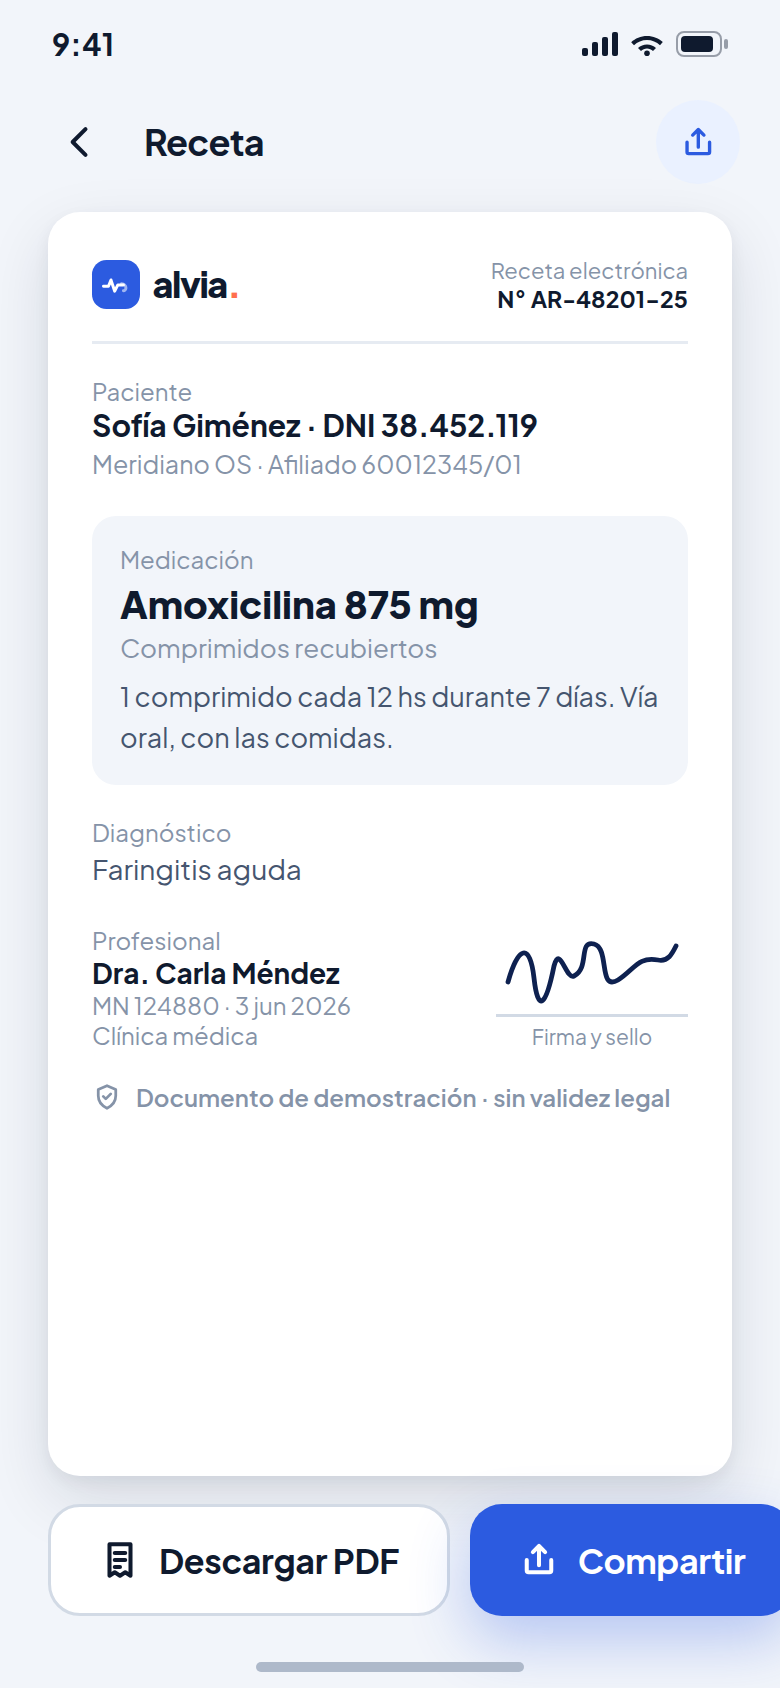
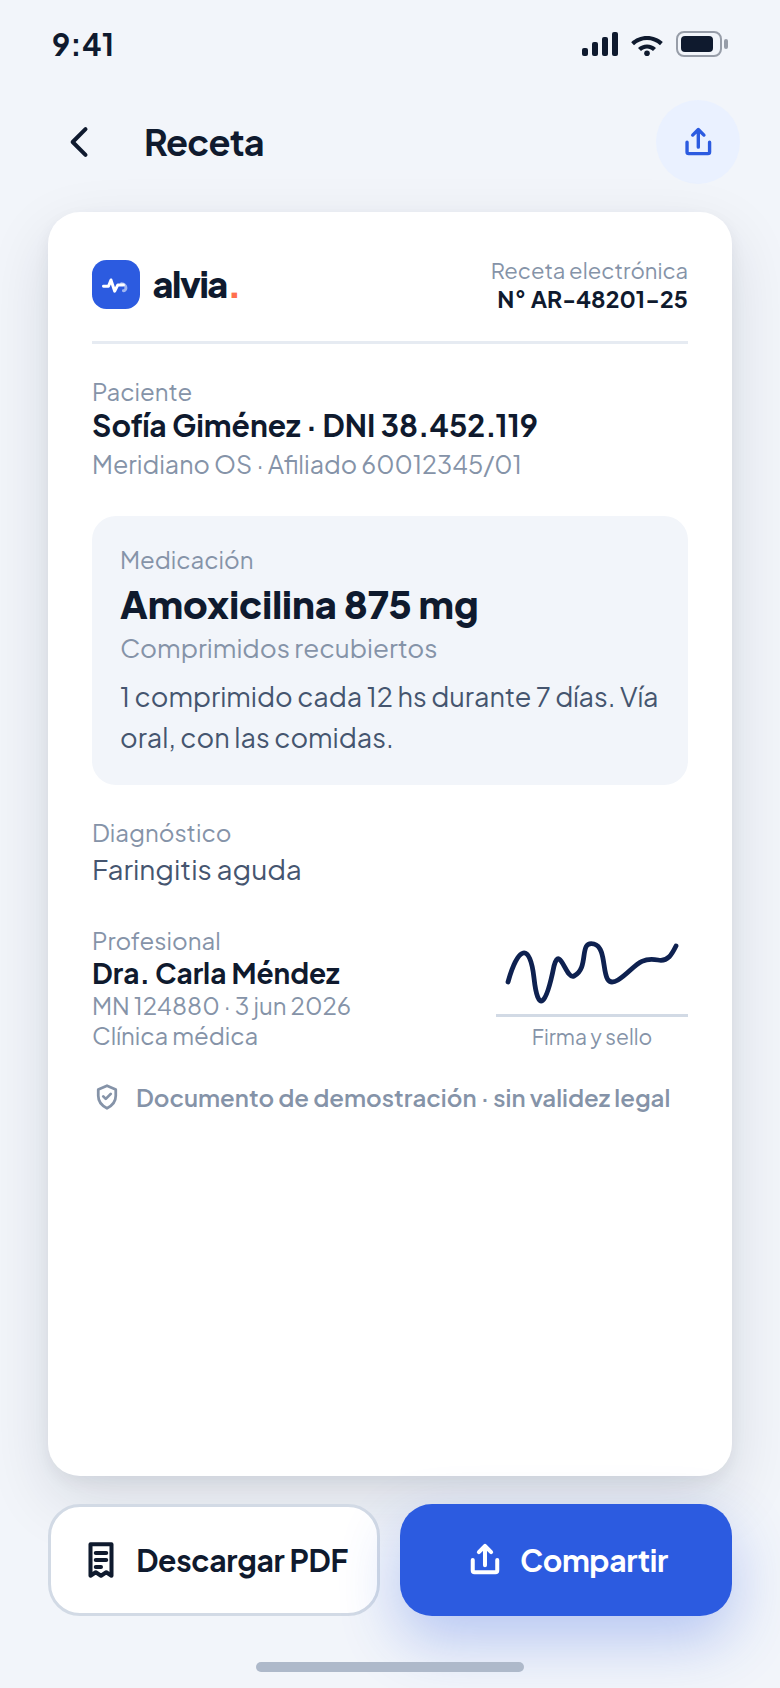
fix: keep prescription actions inside capture

Changed region(s): [[0.1231, 0.8934, 0.6462, 0.9858], [0.6769, 0.8934, 1.0, 0.9858]]

diff --git a/v2/index.html b/v2/index.html
@@ -195,7 +195,7 @@
           <div class="product-proof-grid">
             <figure class="product-shot product-shot--phone">
               <div class="product-shot-media">
-                <img src="assets/mockup-postconsulta-paciente.png?v=20260824-app-2x" alt="Receta electrónica disponible en la app del afiliado">
+                <img src="assets/mockup-postconsulta-paciente.png?v=20260824-receta-actions" alt="Receta electrónica disponible en la app del afiliado">
               </div>
               <figcaption>App del afiliado · Receta electrónica</figcaption>
             </figure>

diff --git a/v3/index.html b/v3/index.html
@@ -182,7 +182,7 @@
               <li>Registro disponible para auditoría.</li>
             </ul>
           </div>
-          <figure class="phone-shot"><img src="assets/mockup-postconsulta-paciente.png?v=20260824-app-2x" alt="Receta electrónica en la app del afiliado"></figure>
+          <figure class="phone-shot"><img src="assets/mockup-postconsulta-paciente.png?v=20260824-receta-actions" alt="Receta electrónica en la app del afiliado"></figure>
         </article>
       </div>
     </section>
